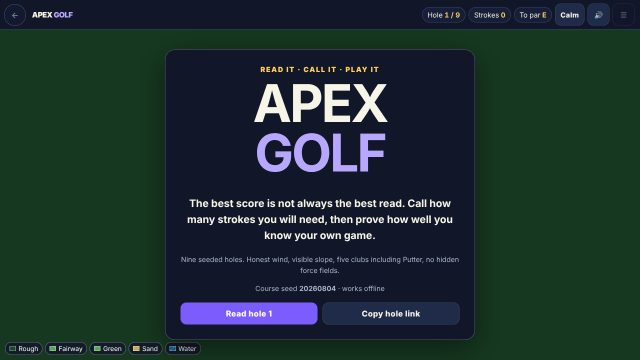
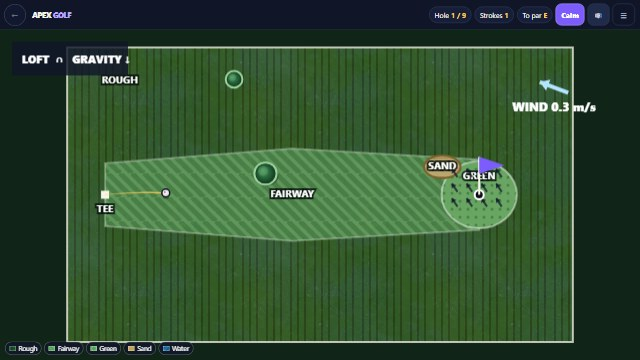
Upgrade Apex Golf (CC0 terrain textures, tracers & input fixes) (#817)
* feat(play): upgrade Apex Golf with CC0 terrain textures, 3D foliage, shot tracer, and input/DOM fixes

* chore(ci): re-pin apexgolf/index.html sha256 in apexpool-home-verify.yml

diff --git a/apexgolf/index.html b/apexgolf/index.html
@@ -482,7 +482,12 @@ return {
    ======================================================================== */
 AG.Render = (function(){
 'use strict';
-var canvas=null,ctx=null,patterns={},view={scale:1,ox:0,oy:0};
+var canvas=null,ctx=null,patterns={},texPats={},texVer=0,holeCache=null,holeCacheCtx=null,holeCacheKey='',shotTrail=[],landRings=[],view={scale:1,ox:0,oy:0};
[1 lines of base64/hex data omitted]
+function loadCC0Textures(){
+  var mk=function(b64,cb){try{var bin=atob(b64),u=new Uint8Array(bin.length),i;for(i=0;i<bin.length;i++)u[i]=bin.charCodeAt(i);createImageBitmap(new Blob([u],{type:'image/webp'})).then(function(bmp){if(ctx){var p=ctx.createPattern(bmp,'repeat');if(p){cb(p);texVer++;}}}).catch(function(){});}catch(e){}};
+  mk(TEX_DATA.grass,function(p){texPats.grass=p;});mk(TEX_DATA.rough,function(p){texPats.rough=p;});mk(TEX_DATA.sand,function(p){texPats.sand=p;});
+}
 var evidence={forces:[],terrainLabels:[],geometry:{}};
 function makePattern(kind){var c=document.createElement('canvas');c.width=c.height=24;var g=c.getContext('2d');
   if(kind==='rough'){g.fillStyle='#1f5b31';g.fillRect(0,0,24,24);g.strokeStyle='#143d22';g.lineWidth=2;for(var x=3;x<24;x+=7){g.beginPath();g.moveTo(x,0);g.lineTo(x,24);g.stroke();}}
@@ -491,7 +496,7 @@ function makePattern(kind){var c=document.createElement('canvas');c.width=c.heig
   if(kind==='sand'){g.fillStyle='#d5bd78';g.fillRect(0,0,24,24);g.strokeStyle='#9f8546';g.lineWidth=1;for(var y=4;y<24;y+=5){g.beginPath();g.moveTo(0,y);g.lineTo(24,y);g.stroke();}}
   if(kind==='water'){g.fillStyle='#2e83b8';g.fillRect(0,0,24,24);g.strokeStyle='#b3e5ff';g.lineWidth=1.5;for(var y=5;y<24;y+=8){g.beginPath();g.moveTo(0,y);g.quadraticCurveTo(6,y-3,12,y);g.quadraticCurveTo(18,y+3,24,y);g.stroke();}}
   return ctx.createPattern(c,'repeat');}
-function install(c){canvas=c;ctx=c.getContext&&c.getContext('2d');if(!ctx)return false;patterns.rough=makePattern('rough');patterns.fairway=makePattern('fairway');patterns.green=makePattern('green');patterns.sand=makePattern('sand');patterns.water=makePattern('water');return true;}
+function install(c){canvas=c;ctx=c.getContext&&c.getContext('2d');if(!ctx)return false;patterns.rough=makePattern('rough');patterns.fairway=makePattern('fairway');patterns.green=makePattern('green');patterns.sand=makePattern('sand');patterns.water=makePattern('water');holeCache=document.createElement('canvas');holeCacheCtx=holeCache.getContext('2d');loadCC0Textures();return true;}
 function resize(){if(!canvas||!ctx)return;var r=canvas.getBoundingClientRect(),dpr=Math.min(window.devicePixelRatio||1,2),w=Math.max(1,Math.round(r.width*dpr)),h=Math.max(1,Math.round(r.height*dpr));if(canvas.width!==w||canvas.height!==h){canvas.width=w;canvas.height=h;patterns.rough=makePattern('rough');patterns.fairway=makePattern('fairway');patterns.green=makePattern('green');patterns.sand=makePattern('sand');patterns.water=makePattern('water');}}
 /* AGX-1 finding A-3. The read panel is an opaque overlay and the course was
    fit to the WHOLE canvas, so on a phone the pupil called their stroke count
@@ -507,12 +512,31 @@ function pathPoly(poly){ctx.beginPath();for(var i=0;i<poly.length;i++){var p=W(p
 function ellipse(e){var p=W(e),rx=Math.max(.001,Math.abs(e.rx*view.scale)),ry=Math.max(.001,Math.abs(e.ry*view.scale));ctx.beginPath();ctx.ellipse(p.x,p.y,rx,ry,0,0,Math.PI*2);}
 function markForce(n){if(evidence.forces.indexOf(n)<0)evidence.forces.push(n);}
 function label(text,p,small){var q=W(p);ctx.save();ctx.font=(small?'700 ':'900 ')+Math.max(small?10:12,view.scale*(small?2.3:2.8))+'px system-ui';ctx.textAlign='center';ctx.textBaseline='middle';ctx.lineWidth=4;ctx.strokeStyle='rgba(8,18,13,.8)';ctx.strokeText(text,q.x,q.y);ctx.fillStyle='#fff';ctx.fillText(text,q.x,q.y);ctx.restore();if(evidence.terrainLabels.indexOf(text)<0)evidence.terrainLabels.push(text);}
-function drawTerrainPatterns(hole){ctx.fillStyle=patterns.rough;ctx.fillRect(view.ox,view.oy,hole.world.w*view.scale,hole.world.h*view.scale);label('ROUGH',{x:25,y:16},true);pathPoly(hole.fairway);ctx.fillStyle=patterns.fairway;ctx.fill();ctx.strokeStyle='rgba(255,255,255,.22)';ctx.lineWidth=2;ctx.stroke();label('FAIRWAY',{x:(hole.tee.x+hole.cup.x)/2,y:(hole.tee.y+hole.cup.y)/2},true);ellipse(hole.green);ctx.fillStyle=patterns.green;ctx.fill();ctx.strokeStyle='rgba(255,255,255,.38)';ctx.stroke();label('GREEN',{x:hole.green.x,y:hole.green.y-hole.green.ry*.55},true);for(var i=0;i<hole.bunkers.length;i++){ellipse(hole.bunkers[i]);ctx.fillStyle=patterns.sand;ctx.fill();ctx.strokeStyle='#8b743c';ctx.stroke();label('SAND',{x:hole.bunkers[i].x,y:hole.bunkers[i].y},true);}markForce('terrainDrag');}
-function drawWater(hole){for(var i=0;i<hole.water.length;i++){pathPoly(hole.water[i]);ctx.fillStyle=patterns.water;ctx.fill();ctx.strokeStyle='#b3e5ff';ctx.lineWidth=2;ctx.stroke();var p=hole.water[i][0];label('WATER',{x:p.x+7,y:p.y+7},true);}markForce('water');}
+function drawTerrainPatterns(hole){
+  ctx.fillStyle=patterns.rough;ctx.fillRect(view.ox,view.oy,hole.world.w*view.scale,hole.world.h*view.scale);
+  if(texPats.rough){ctx.save();ctx.globalAlpha=.26;ctx.fillStyle=texPats.rough;ctx.fillRect(view.ox,view.oy,hole.world.w*view.scale,hole.world.h*view.scale);ctx.restore();}
+  label('ROUGH',{x:25,y:16},true);
+  pathPoly(hole.fairway);ctx.fillStyle=patterns.fairway;ctx.fill();
+  if(texPats.grass){ctx.save();ctx.globalAlpha=.24;ctx.fillStyle=texPats.grass;ctx.fill();ctx.restore();}
+  ctx.strokeStyle='rgba(255,255,255,.28)';ctx.lineWidth=2;ctx.stroke();
+  label('FAIRWAY',{x:(hole.tee.x+hole.cup.x)/2,y:(hole.tee.y+hole.cup.y)/2},true);
+  ellipse(hole.green);ctx.fillStyle=patterns.green;ctx.fill();
+  if(texPats.grass){ctx.save();ctx.globalAlpha=.18;ctx.fillStyle=texPats.grass;ctx.fill();ctx.restore();}
+  ctx.strokeStyle='rgba(255,255,255,.45)';ctx.lineWidth=2;ctx.stroke();
+  label('GREEN',{x:hole.green.x,y:hole.green.y-hole.green.ry*.55},true);
+  for(var i=0;i<hole.bunkers.length;i++){
+    ellipse(hole.bunkers[i]);ctx.fillStyle=patterns.sand;ctx.fill();
+    if(texPats.sand){ctx.save();ctx.globalAlpha=.30;ctx.fillStyle=texPats.sand;ctx.fill();ctx.restore();}
+    ctx.strokeStyle='#7a612d';ctx.lineWidth=2;ctx.stroke();
+    label('SAND',{x:hole.bunkers[i].x,y:hole.bunkers[i].y},true);
+  }
+  markForce('terrainDrag');
+}
+function drawWater(hole){var t=window.__AG_CALM?0:performance.now()*.0018;for(var i=0;i<hole.water.length;i++){pathPoly(hole.water[i]);ctx.fillStyle=patterns.water;ctx.fill();ctx.save();ctx.clip();var w0=W(hole.water[i][0]),wg=ctx.createLinearGradient(w0.x-40,w0.y-40,w0.x+160,w0.y+120);wg.addColorStop(0,'rgba(179,229,255,.16)');wg.addColorStop(.5,'rgba(14,75,118,.20)');wg.addColorStop(1,'rgba(179,229,255,.10)');ctx.fillStyle=wg;ctx.fill();if(!window.__AG_CALM){ctx.strokeStyle='rgba(255,255,255,.22)';ctx.lineWidth=1.5;for(var k=0;k<3;k++){var rx=w0.x+30+k*42+Math.sin(t+k)*10,ry=w0.y+18+k*24;ctx.beginPath();ctx.ellipse(rx,ry,16+Math.sin(t*1.3+k)*3,6,0,0,Math.PI*2);ctx.stroke();}}ctx.restore();ctx.strokeStyle='#b3e5ff';ctx.lineWidth=2;ctx.stroke();var p=hole.water[i][0];label('WATER',{x:p.x+7,y:p.y+7},true);}markForce('water');}
 function drawBoundary(hole){ctx.strokeStyle='rgba(247,244,232,.75)';ctx.lineWidth=Math.max(2,view.scale*.9);ctx.strokeRect(view.ox,view.oy,hole.world.w*view.scale,hole.world.h*view.scale);markForce('boundaries');}
-function drawTrees(hole){for(var i=0;i<hole.trees.length;i++){var t=hole.trees[i],p=W(t);ctx.beginPath();ctx.arc(p.x,p.y,t.r*view.scale,0,Math.PI*2);ctx.fillStyle='#163c25';ctx.fill();ctx.strokeStyle='#9bd19c';ctx.lineWidth=2;ctx.stroke();ctx.beginPath();ctx.moveTo(p.x-t.r*view.scale*.7,p.y);ctx.lineTo(p.x+t.r*view.scale*.7,p.y);ctx.moveTo(p.x,p.y-t.r*view.scale*.7);ctx.lineTo(p.x,p.y+t.r*view.scale*.7);ctx.stroke();}markForce('trees');}
+function drawTrees(hole){for(var i=0;i<hole.trees.length;i++){var t=hole.trees[i],p=W(t),r=t.r*view.scale;ctx.fillStyle='rgba(6,16,9,.36)';ctx.beginPath();ctx.ellipse(p.x+r*.18,p.y+r*.22,r*.98,r*.88,0,0,Math.PI*2);ctx.fill();var tg=ctx.createRadialGradient(p.x-r*.25,p.y-r*.25,r*.1,p.x,p.y,r);tg.addColorStop(0,'#459058');tg.addColorStop(.65,'#1d5530');tg.addColorStop(1,'#11321c');ctx.beginPath();ctx.arc(p.x,p.y,r,0,Math.PI*2);ctx.fillStyle=tg;ctx.fill();ctx.strokeStyle='#9bd19c';ctx.lineWidth=2;ctx.stroke();ctx.beginPath();ctx.arc(p.x-r*.22,p.y-r*.22,r*.45,0,Math.PI*2);ctx.fillStyle='rgba(170,235,165,.18)';ctx.fill();}markForce('trees');}
 function drawBumpers(hole){for(var i=0;i<hole.bumpers.length;i++){var b=hole.bumpers[i],p=W(b),r=b.r*view.scale;ctx.beginPath();ctx.arc(p.x,p.y,r,0,Math.PI*2);ctx.fillStyle='#7c5cfc';ctx.fill();ctx.strokeStyle='#ffcf5a';ctx.lineWidth=Math.max(2,r*.18);ctx.stroke();ctx.beginPath();ctx.arc(p.x,p.y,r*.42,0,Math.PI*2);ctx.strokeStyle='#fff';ctx.stroke();}markForce('bumpers');}
-function drawCup(hole){var p=W(hole.cup);ctx.beginPath();ctx.arc(p.x,p.y,Math.max(4,AG.CUP_RADIUS*view.scale),0,Math.PI*2);ctx.fillStyle='#0a0d16';ctx.fill();ctx.strokeStyle='#fff';ctx.lineWidth=2;ctx.stroke();ctx.beginPath();ctx.moveTo(p.x,p.y);ctx.lineTo(p.x,p.y-18*view.scale);ctx.strokeStyle='#f7f4e8';ctx.lineWidth=2;ctx.stroke();ctx.fillStyle='#7c5cfc';ctx.beginPath();ctx.moveTo(p.x,p.y-18*view.scale);ctx.lineTo(p.x+12*view.scale,p.y-14*view.scale);ctx.lineTo(p.x,p.y-10*view.scale);ctx.fill();markForce('cup');}
+function drawCup(hole){var p=W(hole.cup);ctx.beginPath();ctx.arc(p.x,p.y,Math.max(4,AG.CUP_RADIUS*view.scale),0,Math.PI*2);ctx.fillStyle='#0a0d16';ctx.fill();ctx.strokeStyle='#fff';ctx.lineWidth=2;ctx.stroke();ctx.beginPath();ctx.moveTo(p.x,p.y);ctx.lineTo(p.x,p.y-18*view.scale);ctx.strokeStyle='#f7f4e8';ctx.lineWidth=2;ctx.stroke();var fw=window.__AG_CALM?0:Math.sin(performance.now()*.005)*2*view.scale;ctx.fillStyle='#7c5cfc';ctx.beginPath();ctx.moveTo(p.x,p.y-18*view.scale);ctx.quadraticCurveTo(p.x+6*view.scale,p.y-16*view.scale+fw,p.x+12*view.scale,p.y-14*view.scale+fw*.5);ctx.lineTo(p.x,p.y-10*view.scale);ctx.closePath();ctx.fill();markForce('cup');}
 function drawTee(hole){var p=W(hole.tee);ctx.fillStyle='#f7f4e8';ctx.fillRect(p.x-4,p.y-4,8,8);label('TEE',{x:hole.tee.x,y:hole.tee.y+7},true);}
 function drawWind(hole){/* D5: anchor to the AVAILABLE width, not the canvas edge — with the panel
    side-docked on wide viewports the canvas edge is behind it, and the wind
@@ -520,14 +544,62 @@ function drawWind(hole){/* D5: anchor to the AVAILABLE width, not the canvas edg
    gate hit-tests where the renderer actually drew, rather than assuming. */var _ri=Math.max(0,Math.min((view.rightInsetCss||0)*Math.min(window.devicePixelRatio||1,2),canvas.width-1)),x=canvas.width-_ri-86,y=58,mag=hole.wind.speed||0,ang=Math.atan2(hole.wind.y,hole.wind.x),len=28+mag*7;ctx.save();ctx.translate(x,y);ctx.rotate(ang);ctx.strokeStyle='#b3e5ff';ctx.fillStyle='#b3e5ff';ctx.lineWidth=4;evidence.anchors=evidence.anchors||{};evidence.anchors.wind={x:x,y:y};ctx.beginPath();ctx.moveTo(-len/2,0);ctx.lineTo(len/2,0);ctx.stroke();ctx.beginPath();ctx.moveTo(len/2,0);ctx.lineTo(len/2-9,-6);ctx.lineTo(len/2-9,6);ctx.closePath();ctx.fill();ctx.restore();ctx.fillStyle='#fff';ctx.font='800 12px system-ui';ctx.textAlign='center';ctx.fillText('WIND '+mag.toFixed(1)+' m/s',x,y+24);markForce('wind');}
 function drawSlope(hole){var center=W({x:hole.slope.cx,y:hole.slope.cy}),ang=Math.atan2(hole.slope.y,hole.slope.x),spacing=Math.max(12,view.scale*7);ctx.save();ctx.globalAlpha=.72;ctx.strokeStyle='#111629';ctx.fillStyle='#111629';ctx.lineWidth=2;for(var yy=center.y-hole.green.ry*view.scale*.65;yy<=center.y+hole.green.ry*view.scale*.65;yy+=spacing){for(var xx=center.x-hole.green.rx*view.scale*.65;xx<=center.x+hole.green.rx*view.scale*.65;xx+=spacing){ctx.save();ctx.translate(xx,yy);ctx.rotate(ang);ctx.beginPath();ctx.moveTo(-5,0);ctx.lineTo(5,0);ctx.stroke();ctx.beginPath();ctx.moveTo(5,0);ctx.lineTo(1,-3);ctx.lineTo(1,3);ctx.closePath();ctx.fill();ctx.restore();}}ctx.restore();markForce('slope');}
 function drawLoftLegend(){evidence.anchors=evidence.anchors||{};evidence.anchors.loft={x:70,y:29};ctx.fillStyle='rgba(17,22,41,.82)';ctx.fillRect(12,12,116,34);ctx.fillStyle='#fff';ctx.font='800 11px system-ui';ctx.textAlign='left';ctx.fillText('LOFT  ∩   GRAVITY ↓',22,34);markForce('gravity');}
-function drawBall(ball){var p=W(ball),shadowY=p.y+Math.max(2,ball.z*view.scale*.28);ctx.save();ctx.globalAlpha=clamp01(.34-ball.z*.008);ctx.fillStyle='#07140b';ctx.beginPath();ctx.ellipse(p.x,shadowY,Math.max(3,AG.BALL_RADIUS*view.scale*(1+ball.z*.012)),Math.max(2,AG.BALL_RADIUS*view.scale*.55),0,0,Math.PI*2);ctx.fill();ctx.restore();var rr=Math.max(4,AG.BALL_RADIUS*view.scale*(1+ball.z*.018));ctx.beginPath();ctx.arc(p.x,p.y-ball.z*view.scale*.22,rr,0,Math.PI*2);ctx.fillStyle='#f7f4e8';ctx.fill();ctx.strokeStyle='#111629';ctx.lineWidth=1.5;ctx.stroke();ctx.beginPath();ctx.arc(p.x-rr*.25,p.y-ball.z*view.scale*.22-rr*.2,rr*.24,0,Math.PI*2);ctx.fillStyle='#7c5cfc';ctx.fill();}
+function drawTrailAndRings(){
+  var now=performance.now(),i;
+  if(shotTrail.length>1){
+    ctx.save();ctx.lineCap='round';ctx.lineJoin='round';
+    for(i=1;i<shotTrail.length;i++){
+      var a=W(shotTrail[i-1]),b=W(shotTrail[i]),ay=a.y-shotTrail[i-1].z*view.scale*.22,by=b.y-shotTrail[i].z*view.scale*.22;
+      ctx.strokeStyle='rgba(255,207,90,'+(0.12+0.55*(i/shotTrail.length)).toFixed(2)+')';
+      ctx.lineWidth=Math.max(1.5,view.scale*.26*(i/shotTrail.length));
+      ctx.beginPath();ctx.moveTo(a.x,ay);ctx.lineTo(b.x,by);ctx.stroke();
+    }
+    ctx.restore();
+  }
+  for(i=landRings.length-1;i>=0;i--){
+    var rg=landRings[i],age=(now-rg.t)/650;
+    if(age>=1){landRings.splice(i,1);continue;}
+    var wp=W(rg);ctx.save();ctx.globalAlpha=1-age;ctx.strokeStyle=rg.c;ctx.lineWidth=2;
+    ctx.beginPath();ctx.ellipse(wp.x,wp.y,(2+age*7)*view.scale*.55,(1.2+age*4.2)*view.scale*.55,0,0,Math.PI*2);ctx.stroke();ctx.restore();
+  }
+}
+function drawBall(ball){drawTrailAndRings();var p=W(ball),by=p.y-ball.z*view.scale*.22,shadowY=p.y+Math.max(2,ball.z*view.scale*.28);ctx.save();ctx.globalAlpha=clamp01(.38-ball.z*.008);ctx.fillStyle='#07140b';ctx.beginPath();ctx.ellipse(p.x,shadowY,Math.max(3,AG.BALL_RADIUS*view.scale*(1+ball.z*.012)),Math.max(2,AG.BALL_RADIUS*view.scale*.55),0,0,Math.PI*2);ctx.fill();ctx.restore();var rr=Math.max(4,AG.BALL_RADIUS*view.scale*(1+ball.z*.018));var bg=ctx.createRadialGradient(p.x-rr*.3,by-rr*.3,rr*.1,p.x,by,rr);bg.addColorStop(0,'#ffffff');bg.addColorStop(.65,'#eae5d3');bg.addColorStop(1,'#b5ae99');ctx.beginPath();ctx.arc(p.x,by,rr,0,Math.PI*2);ctx.fillStyle=bg;ctx.fill();ctx.strokeStyle='#111629';ctx.lineWidth=1.5;ctx.stroke();ctx.beginPath();ctx.arc(p.x-rr*.25,by-rr*.2,rr*.22,0,Math.PI*2);ctx.fillStyle='#7c5cfc';ctx.fill();}
 function clamp01(v){return v<0?0:(v>1?1:v);}
 function drawAim(ball,aim){if(!aim)return;var p=W(ball),len=(35+aim.power*90)*Math.min(1.5,view.scale*.4),dx=Math.cos(aim.angle)*len,dy=Math.sin(aim.angle)*len;ctx.save();ctx.strokeStyle='#ffcf5a';ctx.fillStyle='#ffcf5a';ctx.lineWidth=4;ctx.setLineDash([9,7]);ctx.beginPath();ctx.moveTo(p.x,p.y);ctx.lineTo(p.x+dx,p.y+dy);ctx.stroke();ctx.setLineDash([]);ctx.beginPath();ctx.moveTo(p.x+dx,p.y+dy);ctx.lineTo(p.x+dx-Math.cos(aim.angle-.55)*12,p.y+dy-Math.sin(aim.angle-.55)*12);ctx.lineTo(p.x+dx-Math.cos(aim.angle+.55)*12,p.y+dy-Math.sin(aim.angle+.55)*12);ctx.closePath();ctx.fill();ctx.restore();}
-function render(hole,ball,aim,phase){if(!ctx||!hole)return null;resize();setView(hole);evidence={forces:[],terrainLabels:[],geometry:{fairway:hole.fairway.length,water:hole.water.length,bunkers:hole.bunkers.length,trees:hole.trees.length,bumpers:hole.bumpers.length,phase:phase}};ctx.clearRect(0,0,canvas.width,canvas.height);ctx.fillStyle='#102518';ctx.fillRect(0,0,canvas.width,canvas.height);drawTerrainPatterns(hole);drawWater(hole);drawBoundary(hole);drawTrees(hole);drawBumpers(hole);drawSlope(hole);drawCup(hole);drawTee(hole);drawWind(hole);drawLoftLegend();if(ball)drawBall(ball);if(aim&&phase==='aim')drawAim(ball,aim);evidence.forces.sort();return evidence;}
+function render(hole,ball,aim,phase){
+  if(!ctx||!hole)return null;
+  resize();setView(hole);
+  evidence={forces:[],terrainLabels:[],geometry:{fairway:hole.fairway.length,water:hole.water.length,bunkers:hole.bunkers.length,trees:hole.trees.length,bumpers:hole.bumpers.length,phase:phase}};
+  var key=hole.index+':'+hole.tee.x.toFixed(2)+':'+hole.cup.x.toFixed(2)+':'+canvas.width+'x'+canvas.height+':'+view.scale.toFixed(4)+':'+view.ox.toFixed(1)+','+view.oy.toFixed(1)+':'+texVer;
+  if(holeCache&&holeCacheCtx){
+    if(holeCacheKey!==key){
+      holeCache.width=canvas.width;holeCache.height=canvas.height;
+      var saved=ctx;ctx=holeCacheCtx;
+      ctx.fillStyle='#102518';ctx.fillRect(0,0,canvas.width,canvas.height);
+      drawTerrainPatterns(hole);drawBoundary(hole);drawTrees(hole);drawBumpers(hole);drawSlope(hole);
+      ctx=saved;holeCacheKey=key;
+    }else{
+      markForce('terrainDrag');markForce('boundaries');markForce('trees');markForce('bumpers');markForce('slope');
+      evidence.terrainLabels.push('ROUGH','FAIRWAY','GREEN');
+      if(hole.bunkers.length)evidence.terrainLabels.push('SAND');
+    }
+    ctx.drawImage(holeCache,0,0);
+    drawWater(hole);
+  }else{
+    ctx.fillStyle='#102518';ctx.fillRect(0,0,canvas.width,canvas.height);
+    drawTerrainPatterns(hole);drawBoundary(hole);drawTrees(hole);drawBumpers(hole);drawSlope(hole);drawWater(hole);
+  }
+  drawCup(hole);drawTee(hole);drawWind(hole);drawLoftLegend();
+  if(ball)drawBall(ball);
+  if(aim&&phase==='aim')drawAim(ball,aim);
+  evidence.forces.sort();
+  return evidence;
+}
 function pointer(e){var r=canvas.getBoundingClientRect();return AG.pointerToCanvas(e.clientX,e.clientY,r,canvas.width,canvas.height);}
 function terrainGreyscaleSignatures(){var out={};['rough','fairway','green','sand','water'].forEach(function(k){var c=document.createElement('canvas');c.width=c.height=48;var g=c.getContext('2d');var old=ctx;ctx=g;var pat=makePattern(k);ctx=old;g.fillStyle=pat;g.fillRect(0,0,48,48);var d=g.getImageData(0,0,48,48).data,sum=0,sum2=0,edge=0;for(var i=0;i<d.length;i+=4){var lum=Math.round(.2126*d[i]+.7152*d[i+1]+.0722*d[i+2]);sum+=lum;sum2+=lum*lum;if(i>=4)edge+=Math.abs(lum-Math.round(.2126*d[i-4]+.7152*d[i-3]+.0722*d[i-2]));}var n=d.length/4;out[k]=[Math.round(sum/n),Math.round(Math.sqrt(Math.max(0,sum2/n-(sum/n)*(sum/n)))),Math.round(edge/n)];});return out;}
 function getEvidence(){return JSON.parse(JSON.stringify(evidence));}
-return{install:install,resize:resize,render:render,W:W,C:C,pointer:pointer,setBottomInset:setBottomInset,setRightInset:setRightInset,getEvidence:getEvidence,terrainGreyscaleSignatures:terrainGreyscaleSignatures,getCanvas:function(){return canvas;},getContext:function(){return ctx;}};
+function clearTrail(){shotTrail=[];landRings=[];}function pushTrail(b){if(!b)return;if(!shotTrail.length||AG.hypot2(shotTrail[shotTrail.length-1].x-b.x,shotTrail[shotTrail.length-1].y-b.y)>.45){shotTrail.push({x:b.x,y:b.y,z:b.z});if(shotTrail.length>220)shotTrail.shift();}}function pushRing(b,c){if(!window.__AG_CALM&&b)landRings.push({x:b.x,y:b.y,c:c||'#fff',t:performance.now()});}
+return{install:install,resize:resize,render:render,clearTrail:clearTrail,pushTrail:pushTrail,pushRing:pushRing,W:W,C:C,pointer:pointer,setBottomInset:setBottomInset,setRightInset:setRightInset,getEvidence:getEvidence,terrainGreyscaleSignatures:terrainGreyscaleSignatures,getCanvas:function(){return canvas;},getContext:function(){return ctx;}};
 })();
 </script>
 <script>
@@ -577,13 +649,13 @@ function renderHoleResult(){var r=state.lastHoleResult;if(!r)return;state.phase=
 function finishHole(){var actual=state.strokes+state.penalties,rating=AG.callRating(state.called,actual,state.hole.par),toPar=actual-state.hole.par;var row={hole:state.holeIndex+1,name:state.hole.name,par:state.hole.par,called:state.called,strokes:state.strokes,penalties:state.penalties,actual:actual,toPar:toPar,rating:rating};state.rows.push(row);state.lastHoleResult=row;state.roundToPar+=toPar;saveProgress(undefined,rating);var msg=AG.ratingAnnouncement(state.called,actual,state.hole.par);announce(msg);renderHoleResult();}
 function showScorecard(){state.phase='scorecard';state.lastHoleResult=null;var rr=AG.roundCallRating(state.rows),total=0,par=0,body='';for(var i=0;i<state.rows.length;i++){var r=state.rows[i];total+=r.actual;par+=r.par;body+='<tr><td>'+r.hole+'. '+esc(r.name)+'</td><td>'+r.par+'</td><td>'+r.called+'</td><td>'+r.actual+'</td><td>'+AG.signedScore(r.toPar)+'</td><td>'+r.rating+'</td></tr>';}saveProgress(rr);$('screenHost').innerHTML='<section class="screen screen--scorecard"><div class="eyebrow">Nine-hole scorecard</div><h2>Round '+AG.signedScore(total-par)+'</h2><p>Round '+AG.RATING_NAME+': <b>'+rr+' / 100</b></p><table><thead><tr><th>Hole</th><th>Par</th><th>Call</th><th>Took</th><th>±</th><th>Read</th></tr></thead><tbody>'+body+'</tbody><tfoot><tr><td>Total</td><td>'+par+'</td><td>—</td><td>'+total+'</td><td>'+AG.signedScore(total-par)+'</td><td>'+rr+'</td></tr></tfoot></table><div class="actions"><button type="button" id="againBtn">New seeded round</button><button type="button" id="homeBtn" class="secondary">Home</button></div></section>';$('againBtn').onclick=function(){state.seed=(Math.imul(state.seed,1664525)+1013904223)>>>0;history.replaceState(null,'',AG.formatHash(state.seed));startRound();};$('homeBtn').onclick=showTitle;announce('Round complete. '+AG.RATING_NAME+' '+rr+' out of 100.');updateHud();}
 function startRound(){state.course=AG.generateCourse(state.seed);state.holeIndex=0;state.rows=[];state.roundToPar=0;startHole();}
-function startHole(){state.hole=state.course.holes[state.holeIndex];state.ball=AG.makeBall(state.hole);state.prevBall=null;state.strokes=0;state.penalties=0;state.called=state.hole.par;state.club=state.hole.length<90?0:(state.hole.length<145?1:(state.hole.length<190?2:3));state.aim={angle:Math.atan2(state.hole.cup.y-state.ball.y,state.hole.cup.x-state.ball.x),power:.64};setClub(state.club);showRead(true);updateHud();}
+function startHole(){if(AG.Render.clearTrail)AG.Render.clearTrail();state.hole=state.course.holes[state.holeIndex];state.ball=AG.makeBall(state.hole);state.prevBall=null;state.strokes=0;state.penalties=0;state.called=state.hole.par;state.club=state.hole.length<90?0:(state.hole.length<145?1:(state.hole.length<190?2:3));state.aim={angle:Math.atan2(state.hole.cup.y-state.ball.y,state.hole.cup.x-state.ball.x),power:.64};setClub(state.club);showRead(true);updateHud();}
 function setClub(i){state.club=AG.clamp(Math.round(i),0,AG.CLUBS.length-1);Array.prototype.forEach.call(document.querySelectorAll('.club'),function(b){b.setAttribute('aria-pressed',Number(b.dataset.club)===state.club?'true':'false');});updateAimReadout();}
 function updateAimReadout(){var c=AG.CLUBS[state.club]||AG.CLUBS[0],p=Math.round(state.aim.power*100);$('aimReadout').innerHTML='<span class="aimStrong">'+c.label+' · '+p+'%</span><span>Drag or use controls · Keys 1–5</span>';var pr=$('powerRange');if(pr&&document.activeElement!==pr)pr.value=String(p);}
 function playKeyboardStroke(){if(state.phase!=='aim'||state.ball.moving)return;strike(state.aim.angle,state.aim.power);}
-function strike(angle,power){if(state.phase!=='aim'||state.ball.moving)return;state.strokes++;state.prevBall=AG.cloneBall(state.ball);AG.launch(state.ball,state.hole,angle,power,state.club);state.phase='moving';$('playControls').classList.add('hidden');announce('Stroke '+state.strokes+' played.');updateHud();}
+function strike(angle,power){if(state.phase!=='aim'||state.ball.moving)return;if(AG.Render.clearTrail)AG.Render.clearTrail();state.strokes++;state.prevBall=AG.cloneBall(state.ball);AG.launch(state.ball,state.hole,angle,power,state.club);if(AG.Render.pushTrail)AG.Render.pushTrail(state.ball);state.phase='moving';$('playControls').classList.add('hidden');announce('Stroke '+state.strokes+' played.');updateHud();}
 function afterRest(){if(state.ball.penaltyEvent){state.penalties++;toast('Water: one penalty stroke. Ball dropped at the last safe position.');state.ball.penaltyEvent=false;}if(state.ball.sunk){finishHole();return;}if(state.ball.cupRejected){toast('Too quick for the cup — lip-out.');state.ball.cupRejected=false;}var dx=state.hole.cup.x-state.ball.x,dy=state.hole.cup.y-state.ball.y,rem=AG.hypot2(dx,dy);state.aim.angle=Math.atan2(dy,dx);if(AG.terrainAt(state.hole,state.ball)==='green'||rem<20){setClub(4);state.aim.power=AG.clamp(rem/18,.22,.92);}else{state.aim.power=AG.clamp(rem/(AG.CLUBS[state.club].carry||90),.25,.88);}showRead(false);updateHud();}
-function update(dt){if(state.paused||!state.ball||state.phase!=='moving')return;var was=state.ball.moving;state.prevBall=AG.cloneBall(state.ball);AG.stepBall(state.ball,state.hole,dt);if(was&&!state.ball.moving)afterRest();}
+function update(dt){if(state.paused||!state.ball||state.phase!=='moving')return;var was=state.ball.moving;state.prevBall=AG.cloneBall(state.ball);AG.stepBall(state.ball,state.hole,dt);if(AG.Render.pushTrail&&state.ball.moving)AG.Render.pushTrail(state.ball);if(state.ball.lastRestitution==='landing'&&AG.Render.pushRing)AG.Render.pushRing(state.ball,'#ffcf5a');if(was&&!state.ball.moving)afterRest();}
 function updateHud(){if(!$('hudHole'))return;$('hudHole').textContent=(state.holeIndex+1)+' / 9';$('hudStrokes').textContent=String((state.strokes||0)+(state.penalties||0));$('hudPar').textContent=AG.signedScore(state.roundToPar||0);var pb=$('pauseBtn');if(pb)pb.disabled=(state.phase==='title'||state.phase==='scorecard');}
 /* AGX-1 A-3: keep the renderer's bottom inset equal to the height the docked
    read panel actually occupies, so the hole is fit above it. Measured, not
@@ -595,7 +667,7 @@ function syncReadInset(){
  /* D5: the inset applies at every breakpoint. The panel occluded the hole at
     768 (3/10 points) and 1280 (7/10) too; the <=400px scope was the ruling's,
     not the defect's. */
- var el=reading?$('screenHost').querySelector('.screen--read'):null;
+ var host=$('screenHost'),el=reading&&host?host.querySelector('.screen--read'):null;
  if(!el){AG.Render.setBottomInset(0);if(AG.Render.setRightInset)AG.Render.setRightInset(0);return;}
  var cv=$('courseCanvas'),cr=(cv||$('stage')).getBoundingClientRect(),pr=el.getBoundingClientRect();
  /* Which axis the panel docked on is a CSS decision, so read it back from
@@ -642,7 +714,7 @@ function input(){var cv=$('courseCanvas'),pauseReturn=null,prevPhase=null;
   }
   function openPause(){
     if(state.phase==='title'||state.phase==='scorecard'||state.paused)return;
-    prevPhase=state.phase; pauseReturn=document.activeElement; state.paused=true;
+    state.drag=null; prevPhase=state.phase; pauseReturn=document.activeElement; state.paused=true;
     var s=readSettings();
     $('screenHost').innerHTML='<section class="screen screen--read"><div class="eyebrow">Menu</div><h2>Round paused</h2><div class="actions"><button type="button" id="resumeBtn">Resume</button><button type="button" id="pauseCalmBtn" class="secondary" aria-pressed="'+String(!!s.calm)+'">Calm: '+(s.calm?'On':'Off')+'</button><button type="button" id="pauseMuteBtn" class="secondary" aria-pressed="'+String(!!s.mute)+'">Audio: '+(s.mute?'Muted':'On')+'</button><button type="button" id="quitBtn" class="secondary">Home</button></div></section>';
     $('resumeBtn').onclick=resumePause;
@@ -650,7 +722,8 @@ function input(){var cv=$('courseCanvas'),pauseReturn=null,prevPhase=null;
     $('pauseMuteBtn').onclick=function(){toggleMute();var ns=readSettings();this.setAttribute('aria-pressed',String(!!ns.mute));this.textContent='Audio: '+(ns.mute?'Muted':'On');};
     $('quitBtn').onclick=function(){state.paused=false;prevPhase=null;showTitle();};
   }
-  window.addEventListener('keydown',function(e){if(e.key==='Escape'){if(state.paused){resumePause();e.preventDefault();return;}if(state.phase!=='title'&&state.phase!=='scorecard'){openPause();e.preventDefault();return;}}if(state.phase==='aim'&&!state.paused){if(e.key>='1'&&e.key<='5'){setClub(Number(e.key)-1);e.preventDefault();}else if(e.key==='ArrowLeft'){state.aim.angle-=.045;e.preventDefault();}else if(e.key==='ArrowRight'){state.aim.angle+=.045;e.preventDefault();}else if(e.key==='ArrowUp'){state.aim.power=AG.clamp(state.aim.power+.04,.08,1);updateAimReadout();e.preventDefault();}else if(e.key==='ArrowDown'){state.aim.power=AG.clamp(state.aim.power-.04,.08,1);updateAimReadout();e.preventDefault();}else if(e.key==='Enter'||e.key===' '){playKeyboardStroke();e.preventDefault();}}});
+  window.addEventListener('blur',function(){state.drag=null;});
+  window.addEventListener('keydown',function(e){var t=e.target,tag=t&&t.tagName;if(e.key==='Escape'){if(state.paused){resumePause();e.preventDefault();return;}if(state.phase!=='title'&&state.phase!=='scorecard'){openPause();e.preventDefault();return;}}if(tag==='INPUT'||tag==='TEXTAREA'||tag==='SELECT'||(t&&t.isContentEditable))return;if(e.ctrlKey||e.metaKey||e.altKey)return;if(state.phase==='aim'&&!state.paused){if(e.key>='1'&&e.key<='5'){setClub(Number(e.key)-1);e.preventDefault();}else if(e.key==='ArrowLeft'){state.aim.angle-=.045;e.preventDefault();}else if(e.key==='ArrowRight'){state.aim.angle+=.045;e.preventDefault();}else if(e.key==='ArrowUp'){state.aim.power=AG.clamp(state.aim.power+.04,.08,1);updateAimReadout();e.preventDefault();}else if(e.key==='ArrowDown'){state.aim.power=AG.clamp(state.aim.power-.04,.08,1);updateAimReadout();e.preventDefault();}else if((e.key==='Enter'||e.key===' ')&&tag!=='BUTTON'){playKeyboardStroke();e.preventDefault();}}});
   $('pauseBtn').onclick=openPause;
   applySettingsUI();
 }
